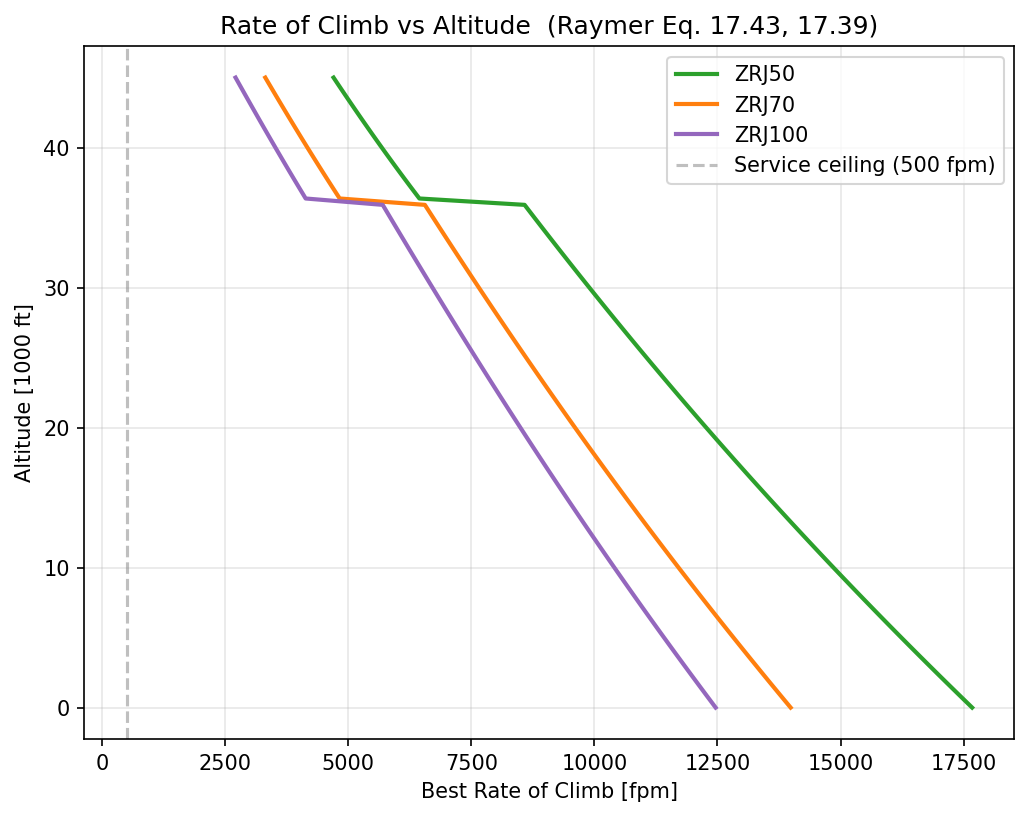
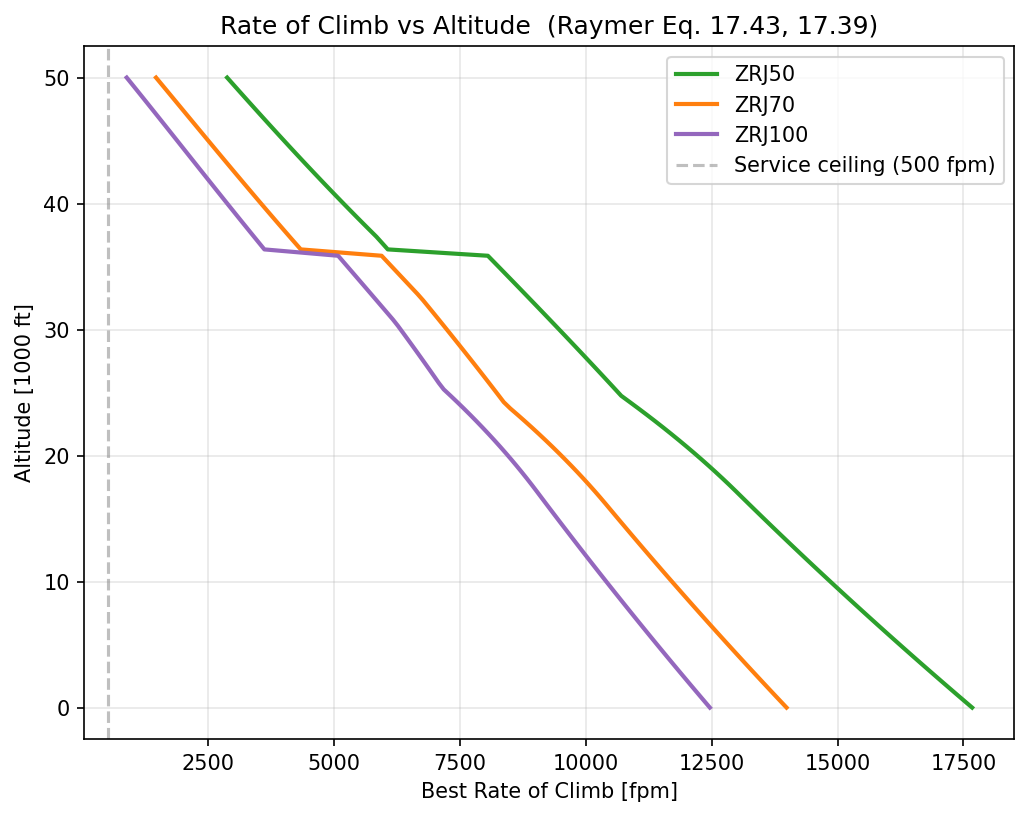
Add wave drag model, fix service ceiling, add wet landing distance
- Add perf/wave_drag.py with Korn equation (M_DD) and piecewise
  compressibility drag rise model (Raymer Ch.12, Fig. 12.32)
- Add M_mo field to AircraftData, set 0.85 for all variants
- Fix service ceiling search: cap V at Mmo, adjust CD0 for wave drag
- Fix ROC, Ps, operating envelope, and Ps contour charts for wave drag
- Add wet landing distance (FAR 121.195d: dry FAR × 1.15) to analysis
  output, summary, comparison table, and MR&O table in README

diff --git a/examples/full_analysis.py b/examples/full_analysis.py
@@ -38,6 +38,8 @@ from perf import (
     total_takeoff_distance, balanced_field_length, find_V1,
     # landing
     total_landing_distance,
+    # wave drag
+    mdd_wing, cd0_at_mach,
 )
 
 # =====================================================================
@@ -291,13 +293,28 @@ def analyse(ac):
     subsection("17.7  SERVICE CEILING")
 
     # Find altitude where ROC = 500 fpm for jet service ceiling
+    # Cap speed at Mmo and account for compressibility drag rise
     svc_ceil = None
     abs_ceil = None
-    for h_test in np.arange(0, 65001, 500):
+    for h_test in np.arange(0, 60001, 500):
         rho_t = isa_density(h_test)
+        a_t = speed_of_sound(h_test)
         T_t = thrust_at_altitude(T_sl, h_test, ac.BPR)
         V_t = V_best_ROC_jet(W, S, rho_t, CD0, K, T_t / W)
-        roc_t = ROC_jet(V_t, T_t, CD0, K, W, S, rho_t)
+
+        # Cap at Mmo
+        if ac.M_mo > 0:
+            V_mmo = ac.M_mo * a_t
+            V_t = min(V_t, V_mmo)
+
+        # Wave drag: adjust CD0 for compressibility
+        M_t = V_t / a_t
+        q_t = 0.5 * rho_t * V_t**2
+        CL_t = W / (q_t * S) if q_t > 0 else 0
+        mdd_t = mdd_wing(ac.t_c, ac.sweep_qc_deg, CL_t)
+        CD0_t = cd0_at_mach(CD0, M_t, mdd_t)
+
+        roc_t = ROC_jet(V_t, T_t, CD0_t, K, W, S, rho_t)
         if svc_ceil is None and roc_t * 60 <= 500.0:
             svc_ceil = h_test
         if roc_t <= 0.5:
@@ -307,11 +324,11 @@ def analyse(ac):
     if svc_ceil:
         print(f"  Service ceiling (~500 fpm): {svc_ceil:,.0f} ft")
     else:
-        print(f"  Service ceiling           : > 65,000 ft")
+        print(f"  Service ceiling           : > 60,000 ft")
     if abs_ceil:
         print(f"  Absolute ceiling (~0 fpm) : {abs_ceil:,.0f} ft")
     else:
-        print(f"  Absolute ceiling          : > 65,000 ft")
+        print(f"  Absolute ceiling          : > 60,000 ft")
 
     # =================================================================
     # 17.8  TAKEOFF
@@ -427,8 +444,11 @@ def analyse(ac):
     print(f"    Flare distance        : {la['S_flare']:,.0f} ft")
     print(f"    Free roll             : {la['S_free_roll']:,.0f} ft")
     print(f"    Braking distance      : {la['S_braking']:,.0f} ft")
+    ldr_wet = la['S_FAR_field'] * 1.15
+
     print(f"    LDR (unfactored)      : {la['S_total_actual']:,.0f} ft")
-    print(f"    LDR (FAR x1.667)      : {la['S_FAR_field']:,.0f} ft")
+    print(f"    LDR (FAR /0.6)        : {la['S_FAR_field']:,.0f} ft")
+    print(f"    LDR wet (FAR x1.15)   : {ldr_wet:,.0f} ft  (FAR 121.195d)")
 
     # =================================================================
     # Summary table
@@ -454,7 +474,8 @@ def analyse(ac):
         ("BFL (Raymer Eq.17.113)",  f"{bfl_empirical:,.0f} ft"),
         ("TOFL (FAR 25)",           f"{TOFL:,.0f} ft"),
         ("LDR (unfactored)",        f"{la['S_total_actual']:,.0f} ft"),
-        ("LDR (FAR x1.667)",        f"{la['S_FAR_field']:,.0f} ft"),
+        ("LDR (FAR /0.6)",          f"{la['S_FAR_field']:,.0f} ft"),
+        ("LDR wet (FAR x1.15)",     f"{ldr_wet:,.0f} ft"),
         ("Glide range from cruise", f"{R_glide/6076:,.0f} nmi"),
     ]
     for label, value in summary:
@@ -472,6 +493,7 @@ def analyse(ac):
         "TOFL": TOFL,
         "LDR": la["S_total_actual"],
         "LDR_FAR": la["S_FAR_field"],
+        "LDR_wet": ldr_wet,
     }
 
 
@@ -499,6 +521,7 @@ def run_comparison(results):
         ("TOFL FAR 25 (ft)",   "TOFL",           ",.0f", None),
         ("LDR (ft)",           "LDR",            ",.0f", None),
         ("LDR FAR (ft)",       "LDR_FAR",        ",.0f", None),
+        ("LDR wet (ft)",       "LDR_wet",        ",.0f", None),
     ]
     for label, key, fmt, transform in metrics:
         row = f"  {label:<28s}"

diff --git a/examples/plot_performance.py b/examples/plot_performance.py
@@ -38,6 +38,7 @@ from perf import (
     Ps_expanded, specific_energy,
     V_best_glide, min_sink_rate, sink_rate,
     asdr_todr_curves,
+    mdd_wing, cd0_at_mach,
 )
 
 FAMILIES = {
@@ -177,14 +178,24 @@ def plot_ROC_vs_altitude():
 
     for ac in VARIANTS:
         W, S, CD0, K = ac.W_TO, ac.S, ac.CD0, ac.K
-        alts = np.linspace(0, 45000, 100)
+        alts = np.linspace(0, 50000, 100)
         rocs = []
         for h in alts:
             rho_h = isa_density(h)
+            a_h = speed_of_sound(h)
             T_h = thrust_at_altitude(ac.T_max_SL, h, ac.BPR)
             TW_h = T_h / W
             V_h = V_best_ROC_jet(W, S, rho_h, CD0, K, TW_h)
-            roc = ROC_jet(V_h, T_h, CD0, K, W, S, rho_h)
+            # Cap at Mmo
+            if ac.M_mo > 0:
+                V_h = min(V_h, ac.M_mo * a_h)
+            # Wave drag
+            M_h = V_h / a_h
+            q_h = 0.5 * rho_h * V_h**2
+            CL_h = W / (q_h * S) if q_h > 0 else 0
+            mdd_h = mdd_wing(ac.t_c, ac.sweep_qc_deg, CL_h)
+            CD0_h = cd0_at_mach(CD0, M_h, mdd_h)
+            roc = ROC_jet(V_h, T_h, CD0_h, K, W, S, rho_h)
             rocs.append(max(roc * 60, 0))  # fpm
         ax.plot(rocs, alts / 1000, color=COLORS[ac.name], label=ac.name, lw=2)
 
@@ -216,7 +227,12 @@ def plot_Ps_vs_Mach():
 
             M_arr = np.linspace(0.2, 0.85, 200)
             V_arr = M_arr * a
-            ps_arr = Ps_expanded(V_arr, TW, ac.wing_loading, CD0, K, rho, n=1.0)
+            # Wave drag: adjust CD0 for each Mach
+            q_arr = 0.5 * rho * V_arr**2
+            CL_arr = W / (q_arr * S)
+            mdd_arr = mdd_wing(ac.t_c, ac.sweep_qc_deg, CL_arr)
+            CD0_arr = cd0_at_mach(CD0, M_arr, mdd_arr)
+            ps_arr = Ps_expanded(V_arr, TW, ac.wing_loading, CD0_arr, K, rho, n=1.0)
 
             ax.plot(M_arr, ps_arr * 60, label=f"{h_ft/1000:.0f}k ft")
 
@@ -432,8 +448,17 @@ def plot_operating_envelope():
             # Thrust boundary: find max Mach where T >= D (Ps >= 0)
             M_test = np.linspace(0.3, 0.95, 300)
             V_test = M_test * a_h
-            T_req = thrust_required(W, CD0, K, S, rho_h, V_test)
+            # Wave drag: adjust CD0 for each Mach
+            q_test = 0.5 * rho_h * V_test**2
+            CL_test = W / (q_test * S)
+            mdd_test = mdd_wing(ac.t_c, ac.sweep_qc_deg, CL_test)
+            CD0_test = cd0_at_mach(CD0, M_test, mdd_test)
+            T_req = np.array([thrust_required(W, cd0_m, K, S, rho_h, v)
+                              for cd0_m, v in zip(CD0_test, V_test)])
             feasible = T_req <= T_h
+            # Also cap at Mmo
+            if ac.M_mo > 0:
+                feasible = feasible & (M_test <= ac.M_mo)
             if np.any(feasible):
                 M_max_thrust.append(M_test[feasible][-1])
             else:
@@ -536,8 +561,13 @@ def plot_Ps_contours():
             T_h = thrust_at_altitude(ac.T_max_SL, h, ac.BPR)
             TW_h = T_h / W
             V_row = M_arr * a_h
+            # Wave drag: adjust CD0 for each Mach
+            q_row = 0.5 * rho_h * V_row**2
+            CL_row = np.where(q_row > 0, W / (q_row * S), 0)
+            mdd_row = mdd_wing(ac.t_c, ac.sweep_qc_deg, CL_row)
+            CD0_row = cd0_at_mach(CD0, M_arr, mdd_row)
             Ps_grid[i, :] = Ps_expanded(V_row, TW_h, ac.wing_loading,
-                                         CD0, K, rho_h, n=1.0) * 60  # fpm
+                                         CD0_row, K, rho_h, n=1.0) * 60  # fpm
 
         levels = [0, 500, 1000, 2000, 5000, 10000, 15000]
         cs = ax.contour(M_grid, H_grid / 1000, Ps_grid, levels=levels,

diff --git a/perf/wave_drag.py b/perf/wave_drag.py
@@ -1,0 +1,68 @@
+"""
+Transonic wave drag estimation.
+Compressibility drag rise model based on Raymer Chapter 12.
+
+Provides:
+    mdd_wing    — drag-divergence Mach from Korn equation
+    cd0_at_mach — CD0 adjusted for compressibility drag rise
+"""
+
+import numpy as np
+
+
+def mdd_wing(t_c, sweep_qc_deg, cl_design=0.0, supercritical=True):
+    """Wing drag-divergence Mach number (Korn equation).
+
+    Raymer Eq. 12.46 / Fig. 12.29 approximation.
+
+    Parameters
+    ----------
+    t_c            : float, thickness-to-chord ratio
+    sweep_qc_deg   : float, quarter-chord sweep [deg]
+    cl_design      : float, design lift coefficient (default 0)
+    supercritical  : bool, True for supercritical airfoils (kA=0.95)
+
+    Returns
+    -------
+    float : M_DD (Boeing definition, ~20 counts drag rise)
+    """
+    cos_s = np.cos(np.radians(sweep_qc_deg))
+    ka = 0.95 if supercritical else 0.87
+    return ka / cos_s - t_c / cos_s**2 - cl_design / (10.0 * cos_s**3)
+
+
+def cd0_at_mach(cd0_sub, mach, mdd):
+    """CD0 with compressibility drag rise (Raymer Fig. 12.32 method).
+
+    Piecewise model:
+        M <= M_cr (M_DD - 0.08)  : cd0_sub (no change)
+        M_cr < M <= M_DD         : smooth quadratic rise (+0.002 at M_DD)
+        M > M_DD                 : steep linear rise (slope ~0.15/Mach)
+
+    Parameters
+    ----------
+    cd0_sub : float, subsonic CD0
+    mach    : float or array, Mach number
+    mdd     : float, drag-divergence Mach number
+
+    Returns
+    -------
+    float or array : total CD0 at given Mach
+    """
+    m = np.asarray(mach, dtype=float)
+    mdd = np.asarray(mdd, dtype=float)
+    m_cr = mdd - 0.08
+    cd = np.full_like(m, cd0_sub)
+
+    # Crest-critical to drag-divergence: quadratic rise to +20 counts
+    mask1 = (m > m_cr) & (m <= mdd)
+    denom = np.maximum(mdd - m_cr, 1e-6)
+    frac1 = np.where(mask1, (m - m_cr) / denom, 0.0)
+    cd = np.where(mask1, cd0_sub + 0.002 * frac1**2, cd)
+
+    # Above M_DD: steep drag rise
+    mask2 = m > mdd
+    excess = np.where(mask2, m - mdd, 0.0)
+    cd = np.where(mask2, cd0_sub + 0.002 + 0.15 * excess, cd)
+
+    return float(cd) if cd.ndim == 0 else cd

diff --git a/data/base.py b/data/base.py
@@ -75,9 +75,10 @@ class AircraftData:
     M_cruise: float = 0.0      # design cruise Mach number
     h_cruise_ft: float = 0.0   # design cruise altitude [ft]
 
-    # ---- Structural limits ----
+    # ---- Structural / speed limits ----
     n_max: float = 2.5         # max positive load factor (transport)
     V_NE_kts: float = 0.0      # never-exceed speed [KEAS]
+    M_mo: float = 0.0          # max operating Mach number
 
     # ---- Derived helpers ----
     @property

diff --git a/data/zrj100.py b/data/zrj100.py
@@ -45,4 +45,5 @@ zrj100 = AircraftData(
     # ---- Structural limits ----
     n_max=2.5,
     V_NE_kts=340.0,         # KEAS (estimate for Mmo 0.85)
+    M_mo=0.85,
 )

diff --git a/data/zrj50.py b/data/zrj50.py
@@ -46,4 +46,5 @@ zrj50 = AircraftData(
     # ---- Structural limits ----
     n_max=2.5,
     V_NE_kts=340.0,         # KEAS (estimate for Mmo 0.85)
+    M_mo=0.85,
 )

diff --git a/data/zrj70.py b/data/zrj70.py
@@ -45,4 +45,5 @@ zrj70 = AircraftData(
     # ---- Structural limits ----
     n_max=2.5,
     V_NE_kts=340.0,         # KEAS (estimate for Mmo 0.85)
+    M_mo=0.85,
 )

diff --git a/data/crj700.py b/data/crj700.py
@@ -57,4 +57,5 @@ crj700 = AircraftData(
     # ---- Structural limits ----
     n_max=2.5,
     V_NE_kts=335.0,         # KEAS
+    M_mo=0.85,
 )

diff --git a/perf/__init__.py b/perf/__init__.py
@@ -7,3 +7,4 @@ from .glide import *
 from .energy import *
 from .takeoff import *
 from .landing import *
+from .wave_drag import *

diff --git a/data/crj1000.py b/data/crj1000.py
@@ -57,4 +57,5 @@ crj1000 = AircraftData(
     # ---- Structural limits ----
     n_max=2.5,
     V_NE_kts=335.0,
+    M_mo=0.85,
 )

diff --git a/README.md b/README.md
@@ -19,7 +19,8 @@ rj-flight-performance/
 │   ├── glide.py                       # 17.5   Gliding flight
 │   ├── energy.py                      # 17.6   Energy-maneuverability methods
 │   ├── takeoff.py                     # 17.8   Takeoff analysis
-│   └── landing.py                     # 17.9   Landing analysis
+│   ├── landing.py                     # 17.9   Landing analysis
+│   └── wave_drag.py                   # 12.5.9 Transonic drag rise (Korn eqn)
 ├── data/                              # Aircraft data files
 │   ├── base.py                        # AircraftData dataclass definition
 │   ├── crj700.py                      # Bombardier CRJ-700
@@ -91,6 +92,7 @@ All three share the same wing (AR 7.8, 22.9 deg sweep) and engine (2x PW1200G, 3
   TOFL FAR 25 (ft)                     2,677         3,653         4,192
   LDR (ft)                             2,293         2,557         2,682
   LDR FAR (ft)                         3,822         4,262         4,469
+  LDR wet (ft)                         4,395         4,902         5,140
 ```
 
 ### MR&O Performance Attributes
@@ -106,13 +108,14 @@ All three share the same wing (AR 7.8, 22.9 deg sweep) and engine (2x PW1200G, 3
 | | Maximum cruise (Optimized Mach) | M 0.85 | M 0.85 | M 0.85 |
 | | Takeoff BFL, ft | 2,439 | 3,396 | 3,956 |
 | | Initial cruise altitude, ft | 35,000 | 35,000 | 35,000 |
-| | Maximum cruise altitude, ft | >65,000 | 63,000 | 59,500 |
+| | Maximum cruise altitude, ft | >60,000 | 55,000 | 52,000 |
 | | Single engine climb | 19.6% | 13.6% | 11.5% |
 | **Weight & Payload** | Max. payload, lbs | 11,350 | 18,055 | 23,380 |
 | | Passengers (<100 PAX market segment) | 50 | 76 | 96 |
 | | Max. landing weight (~85% MTOW) | 55,250 | 69,295 | 76,002 |
 | **Airfield Performance** | TOFL, ISA, SL (MTOW) | 2,677 ft | 3,653 ft | 4,192 ft |
-| | LD, ISA, SL (MLW) | 3,822 ft | 4,262 ft | 4,469 ft |
+| | LD FAR (dry), ISA, SL (MLW) | 3,822 ft | 4,262 ft | 4,469 ft |
+| | LD FAR (wet), ISA, SL (MLW) | 4,395 ft | 4,902 ft | 5,140 ft |
 | | Steep approach capability (MLW) | Yes | Yes | Yes |
 | | Rate of climb [SL, AEO / OEI] | 17,672 / 6,006 fpm | 13,986 / 4,643 fpm | 12,462 / 4,070 fpm |
 | | Glideslope | 3.0 deg | 3.0 deg | 3.0 deg |
@@ -196,6 +199,7 @@ All equations reference Raymer's *Aircraft Design: A Conceptual Approach*, 7th E
 | 17.9.1 | Landing approach | -- | `landing.py` |
 | 17.9.2 | Landing flare | 17.107, 17.110 | `landing.py` |
 | 17.9.3 | Landing ground roll (braking) | 17.102-17.104 | `landing.py` |
+| 12.5.9 | Transonic wave drag / drag rise | Eq. 12.46, Fig. 12.32 | `wave_drag.py` |
 
 ---
 
